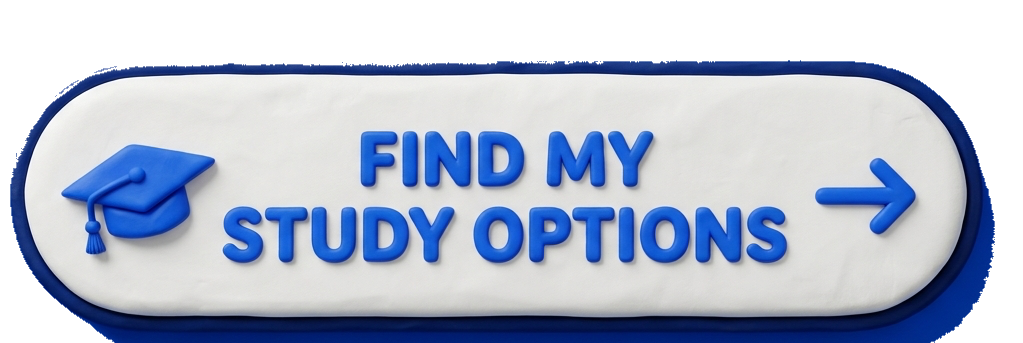
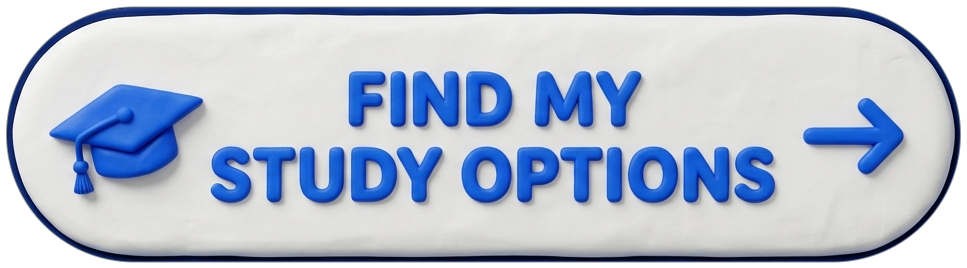
Fix bottom-right asymmetric shadow alignment on white clay CTA button

diff --git a/index.html b/index.html
@@ -1102,7 +1102,7 @@
                 autocomplete="email" />
 
               <button class="btn-cta-img-wrap" type="submit" id="enquirySubmitBtn" aria-label="Find My Study Options">
-                <img src="assets/images/cta-button-find-options-white.png" alt="Find My Study Options" class="btn-cta-img" width="1023" height="343" />
+                <img src="assets/images/cta-button-find-options-white.png" alt="Find My Study Options" class="btn-cta-img" width="967" height="268" />
               </button>
             </form>
 
